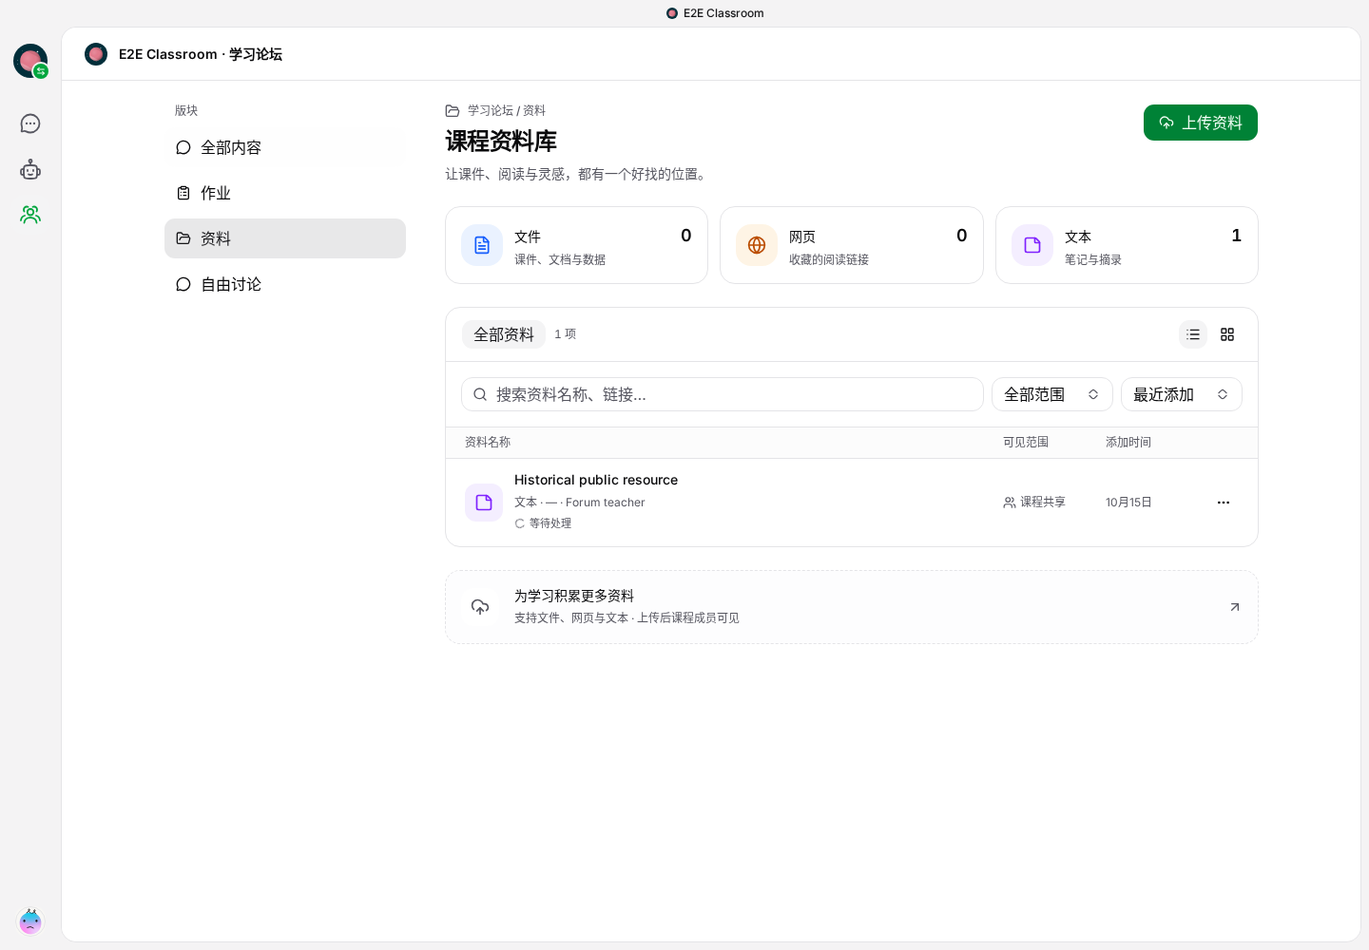
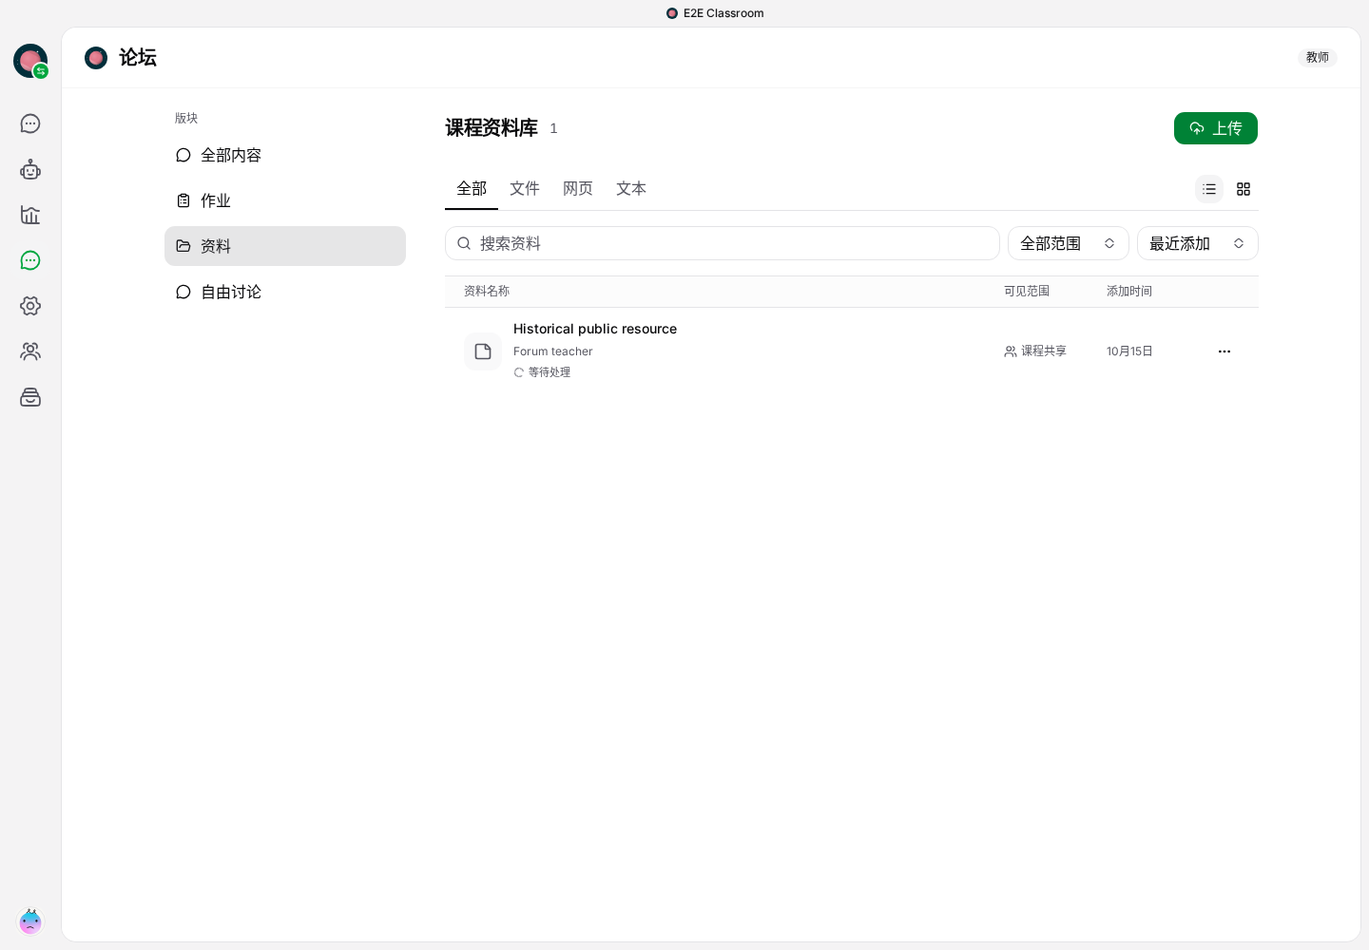
style(forum): simplify the resource library to a minimal interface

diff --git a/src/features/knowledge/components/SourceLibraryBrowser.tsx b/src/features/knowledge/components/SourceLibraryBrowser.tsx
@@ -1,5 +1,5 @@
 import { useMemo, useState } from 'react'
-import { ArrowDownToLine, ArrowUpRight, Check, FileText, Files, FolderOpen, Globe, LayoutGrid, List, LoaderCircle, LockKeyhole, MoreHorizontal, Search, StickyNote, UploadCloud, Users, X } from 'lucide-react'
+import { ArrowDownToLine, ArrowUpRight, FileText, Files, Globe, LayoutGrid, List, LoaderCircle, LockKeyhole, MoreHorizontal, Search, StickyNote, UploadCloud, Users, X } from 'lucide-react'
 import { Button } from '@/components/ui/button'
 import { Input } from '@/components/ui/input'
 import { SelectField } from '@/components/ui/select-field'
@@ -13,16 +13,15 @@ export const sourceStatusLabel: Record<string, string> = {
   chunking: '处理中', indexing: '处理中', ready: '可查看', failed: '处理失败', retrying: '重新处理',
 }
 const categories = [
-  { kind: 'file', label: '文件', description: '课件、文档与数据', icon: FileText, color: 'bg-blue-500/10 text-blue-600 dark:text-blue-400' },
-  { kind: 'url', label: '网页', description: '收藏的阅读链接', icon: Globe, color: 'bg-amber-500/10 text-amber-700 dark:text-amber-400' },
-  { kind: 'text', label: '文本', description: '笔记与摘录', icon: StickyNote, color: 'bg-violet-500/10 text-violet-600 dark:text-violet-400' },
+  { kind: 'file', label: '文件', icon: FileText, color: 'bg-muted/50 text-muted-foreground' },
+  { kind: 'url', label: '网页', icon: Globe, color: 'bg-muted/50 text-muted-foreground' },
+  { kind: 'text', label: '文本', icon: StickyNote, color: 'bg-muted/50 text-muted-foreground' },
 ] as const
 const sizeLabel = (bytes: number) => bytes === 0 ? '—' : bytes < 1024 ? `${bytes} B` : bytes < 1024 * 1024 ? `${Math.ceil(bytes / 1024)} KB` : `${(bytes / 1024 / 1024).toFixed(1)} MB`
 const dateLabel = (date: string) => new Date(date).toLocaleDateString('zh-CN', { month: 'short', day: 'numeric' })
 
-export function SourceLibraryBrowser({ sources, loading, loaded, error, readOnly, uploadVisibility, creatorName, editable, onUpload, onOpen, onRename, onRetry, onRemove, onReload }: {
+export function SourceLibraryBrowser({ sources, loading, loaded, error, readOnly, creatorName, editable, onUpload, onOpen, onRename, onRetry, onRemove, onReload }: {
   sources: KnowledgeSource[]; loading: boolean; loaded: boolean; error: string; readOnly: boolean
-  uploadVisibility: 'PRIVATE' | 'PROJECT'
   creatorName(source: KnowledgeSource): string
   editable(source: KnowledgeSource): boolean
   onUpload(): void; onOpen(source: KnowledgeSource): void; onRename(source: KnowledgeSource): void
@@ -41,34 +40,30 @@ export function SourceLibraryBrowser({ sources, loading, loaded, error, readOnly
   const clear = () => { setQuery(''); setKind('all'); setScope('all') }
 
   return <section aria-label="课程资料库" className="@container/library min-w-0 space-y-6 pb-4">
-    <header className="flex flex-wrap items-start justify-between gap-4">
-      <div><p className="mb-2 flex items-center gap-2 text-xs font-medium text-muted-foreground"><FolderOpen className="size-4" aria-hidden="true" />学习论坛 / 资料</p><h2 className="text-2xl font-semibold tracking-tight">课程资料库</h2><p className="mt-2 text-sm text-muted-foreground">让课件、阅读与灵感，都有一个好找的位置。</p></div>
-      {!readOnly && <Button onClick={onUpload} className="h-10 gap-2 px-4"><UploadCloud className="size-4" />上传资料</Button>}
+    <header className="flex items-center justify-between gap-4">
+      <div className="flex items-center gap-3"><h2 className="text-xl font-semibold tracking-tight">课程资料库</h2><span role="status" aria-label="资料数量" className="text-sm tabular-nums text-muted-foreground">{loaded ? sources.length : '—'}</span></div>
+      {!readOnly && <Button aria-label="上传资料" onClick={onUpload} className="h-9 gap-2 px-4"><UploadCloud className="size-4" />上传</Button>}
     </header>
-    <div className="grid grid-cols-3 gap-2 @min-[32rem]/library:gap-3" aria-label="按资料类型浏览">
-      {categories.map(({ kind: value, label, description, icon: Icon, color }) => <button key={value} type="button" aria-label={label} aria-pressed={kind === value} onClick={() => setKind(kind === value ? 'all' : value)} className={cn('flex min-w-0 flex-col items-start gap-2 rounded-xl border bg-card p-3 @min-[32rem]/library:flex-row @min-[32rem]/library:items-center @min-[32rem]/library:gap-3 @min-[32rem]/library:p-4 text-start transition-colors hover:bg-muted/40 focus-visible:outline-2 focus-visible:outline-offset-2 focus-visible:outline-ring', kind === value && 'border-primary bg-primary/5')}>
-        <span className={cn('grid size-11 shrink-0 place-items-center rounded-xl', color)}><Icon className="size-5" aria-hidden="true" /></span>
-        <span className="w-full min-w-0 flex-1"><span className="flex items-baseline justify-between gap-2 text-sm font-medium">{label}<span className="text-lg font-semibold tabular-nums">{loaded ? sources.filter(source => source.kind === value).length : '—'}</span></span><span className="mt-1 hidden text-xs text-muted-foreground @min-[32rem]/library:block">{description}</span></span>
-      </button>)}
-    </div>
-    <div className="overflow-hidden rounded-xl border bg-card">
-      <div className="flex flex-wrap items-center justify-between gap-3 border-b px-4 py-3">
-        <div className="flex items-center gap-2"><Button variant={kind === 'all' ? 'secondary' : 'ghost'} size="sm" onClick={() => setKind('all')}>全部资料</Button><span className="text-xs tabular-nums text-muted-foreground" role="status">{loaded ? `${filtered.length} 项` : '加载中'}</span></div>
+    <div className="overflow-hidden">
+      <div className="flex flex-wrap items-center justify-between gap-2 border-b">
+        <nav aria-label="按资料类型浏览" className="flex items-center">
+          {[{ kind: 'all', label: '全部', ariaLabel: '全部资料' }, ...categories.map(category => ({ ...category, ariaLabel: category.label }))].map(category => <Button key={category.kind} variant="ghost" size="sm" aria-label={category.ariaLabel} aria-pressed={kind === category.kind} onClick={() => setKind(category.kind)} className="h-11 rounded-none border-x-0 border-t-0 border-b-2 border-transparent px-3 text-muted-foreground aria-pressed:border-b-foreground aria-pressed:text-foreground">{category.label}</Button>)}
+        </nav>
         <div className="flex items-center gap-1" role="group" aria-label="资料显示方式"><Button variant={view === 'list' ? 'secondary' : 'ghost'} size="icon-sm" aria-label="列表视图" aria-pressed={view === 'list'} onClick={() => setView('list')}><List /></Button><Button variant={view === 'grid' ? 'secondary' : 'ghost'} size="icon-sm" aria-label="网格视图" aria-pressed={view === 'grid'} onClick={() => setView('grid')}><LayoutGrid /></Button></div>
       </div>
-      <div className="flex flex-wrap gap-2 p-4">
-        <div className="relative min-w-0 flex-1 basis-48"><Search aria-hidden="true" className="pointer-events-none absolute start-3 top-2.5 size-4 text-muted-foreground" /><Input aria-label="搜索资料" type="search" placeholder="搜索资料名称、链接…" className="bg-background" style={{ paddingInlineStart: '2.25rem' }} value={query} onChange={event => setQuery(event.target.value)} /></div>
+      <div className="flex flex-wrap gap-2 py-4">
+        <div className="relative min-w-0 flex-1 basis-48"><Search aria-hidden="true" className="pointer-events-none absolute start-3 top-2.5 size-4 text-muted-foreground" /><Input aria-label="搜索资料" type="search" placeholder="搜索资料" className="bg-background" style={{ paddingInlineStart: '2.25rem' }} value={query} onChange={event => setQuery(event.target.value)} /></div>
         <SelectField ariaLabel="资料可见范围" className="w-32" value={scope} onValueChange={setScope} options={[{ value: 'all', label: '全部范围' }, { value: 'PROJECT', label: '课程共享' }, { value: 'PRIVATE', label: '仅自己可见' }]} />
         <SelectField ariaLabel="资料排序" className="w-32" value={sort} onValueChange={setSort} options={[{ value: 'newest', label: '最近添加' }, { value: 'oldest', label: '最早添加' }, { value: 'name', label: '名称 A–Z' }]} />
       </div>
       {error && <div role="alert" className="mx-4 mb-4 flex flex-wrap items-center justify-between gap-2 rounded-lg border border-destructive/30 bg-destructive/5 p-3 text-sm text-destructive">{error}<Button variant="outline" size="sm" disabled={loading} onClick={onReload}>重新加载</Button></div>}
       <div aria-busy={loading}>
         {loading && !loaded ? <div className="px-4 pb-4"><SourceCardsSkeleton /></div> : !error && filtered.length === 0 ? <div className="flex min-h-64 flex-col items-center justify-center px-5 py-10 text-center">
-          <div className="mb-4 grid size-14 place-items-center rounded-2xl bg-muted text-muted-foreground"><Files className="size-7" /></div><h3 className="font-medium">{hasFilters ? '没有找到匹配的资料' : '把第一份资料放进来'}</h3><p className="mt-2 max-w-sm text-sm text-muted-foreground">{hasFilters ? '试试其他关键词，或清除筛选查看全部资料。' : readOnly ? '课程资料将在这里集中展示。' : '上传课件、添加阅读链接，或保存一段值得留住的文字。'}</p>
-          {hasFilters ? <Button variant="outline" className="mt-5" onClick={clear}><X />清除筛选</Button> : !readOnly && <Button variant="outline" className="mt-5" onClick={onUpload}>添加第一份资料<ArrowUpRight /></Button>}
+          <div className="mb-4 grid size-14 place-items-center rounded-2xl bg-muted text-muted-foreground"><Files className="size-7" /></div><h3 className="font-medium">{hasFilters ? '没有找到匹配的资料' : '暂无资料'}</h3>
+          {hasFilters ? <Button variant="outline" className="mt-5" onClick={clear}><X />清除筛选</Button> : !readOnly && <Button variant="outline" className="mt-5" onClick={onUpload}>上传资料<UploadCloud /></Button>}
         </div> : <>
           {view === 'list' && filtered.length > 0 && <div aria-hidden="true" className="hidden grid-cols-[minmax(0,1fr)_6rem_6rem_2rem] gap-3 border-y bg-muted/30 px-5 py-2 text-xs text-muted-foreground @min-[36rem]/library:grid"><span>资料名称</span><span>可见范围</span><span>添加时间</span><span /></div>}
-          <ul aria-label="资料列表" className={view === 'grid' ? 'grid gap-3 p-4 @min-[32rem]/library:grid-cols-2 @min-[56rem]/library:grid-cols-3' : 'divide-y'}>
+          <ul aria-label="资料列表" className={view === 'grid' ? 'grid gap-3 py-2 @min-[32rem]/library:grid-cols-2 @min-[56rem]/library:grid-cols-3' : 'divide-y'}>
             {filtered.map(source => {
               const category = categories.find(item => item.kind === source.kind)!
               const Icon = category.icon
@@ -76,8 +71,8 @@ export function SourceLibraryBrowser({ sources, loading, loaded, error, readOnly
               return <li key={source.id} className={cn('group min-w-0', view === 'grid' ? 'relative rounded-xl border p-4 transition-colors hover:bg-muted/20' : 'grid grid-cols-[minmax(0,1fr)_2rem] items-center gap-3 px-4 py-3 transition-colors hover:bg-muted/30 @min-[36rem]/library:grid-cols-[minmax(0,1fr)_6rem_6rem_2rem] @min-[36rem]/library:px-5')}>
                 <button type="button" aria-label={`打开资料：${source.title}`} onClick={() => onOpen(source)} className={cn('min-w-0 rounded-md text-start focus-visible:outline-2 focus-visible:outline-offset-4 focus-visible:outline-ring', view === 'grid' ? 'block w-full' : 'flex items-center gap-3')}>
                   <span className={cn('grid shrink-0 place-items-center rounded-lg', category.color, view === 'grid' ? 'mb-5 size-12' : 'size-10')}><Icon className="size-5" aria-hidden="true" /></span>
-                  <span className="block min-w-0"><span className="block truncate text-sm font-medium" title={source.title}>{source.title}</span><span className="mt-1.5 flex items-center gap-1.5 text-xs text-muted-foreground"><span className="truncate">{category.label} · {sizeLabel(source.sizeBytes)} · {creatorName(source)}</span></span>
-                    <span className={cn('mt-1.5 inline-flex items-center gap-1 text-[11px]', source.status === 'failed' ? 'text-destructive' : 'text-muted-foreground')}>{busy ? <LoaderCircle className="size-3 animate-spin motion-reduce:animate-none" /> : source.status === 'ready' ? <Check className="size-3 text-emerald-600 dark:text-emerald-400" /> : null}{sourceStatusLabel[source.stage] ?? sourceStatusLabel[source.status] ?? '状态暂不可用'}</span>
+                  <span className="block min-w-0"><span className="block truncate text-sm font-medium" title={source.title}>{source.title}</span><span className="mt-1.5 flex items-center gap-1.5 text-xs text-muted-foreground"><span className="truncate">{source.sizeBytes > 0 ? `${sizeLabel(source.sizeBytes)} · ` : ''}{creatorName(source)}</span></span>
+                    {source.status !== 'ready' && <span className={cn('mt-1.5 inline-flex items-center gap-1 text-[11px]', source.status === 'failed' ? 'text-destructive' : 'text-muted-foreground')}>{busy ? <LoaderCircle className="size-3 animate-spin motion-reduce:animate-none" /> : null}{sourceStatusLabel[source.stage] ?? sourceStatusLabel[source.status] ?? '状态暂不可用'}</span>}
                   </span>
                 </button>
                 <span className={cn('items-center gap-1 text-xs text-muted-foreground', view === 'grid' ? 'mt-4 inline-flex' : 'hidden @min-[36rem]/library:flex')}>{source.visibilityScope === 'PROJECT' ? <Users className="size-3.5" /> : <LockKeyhole className="size-3.5" />}{source.visibilityScope === 'PROJECT' ? '课程共享' : '仅自己'}</span>
@@ -94,6 +89,6 @@ export function SourceLibraryBrowser({ sources, loading, loaded, error, readOnly
         </>}
       </div>
     </div>
-    {!readOnly && <button type="button" onClick={onUpload} className="flex w-full items-center gap-4 rounded-xl border border-dashed bg-muted/15 p-4 text-start transition-colors hover:border-primary/50 hover:bg-primary/5 focus-visible:outline-2 focus-visible:outline-ring"><span className="grid size-10 shrink-0 place-items-center rounded-lg bg-background text-muted-foreground"><UploadCloud className="size-5" /></span><span className="min-w-0 flex-1"><span className="block text-sm font-medium">为学习积累更多资料</span><span className="mt-1 block text-xs leading-5 text-muted-foreground">支持文件、网页与文本 · {uploadVisibility === 'PROJECT' ? '上传后课程成员可见' : '上传后仅自己可见'}</span></span><ArrowUpRight className="size-4 shrink-0 text-muted-foreground" /></button>}
+
   </section>
 }

diff --git a/src/features/knowledge/components/KnowledgeSourceUploadDialog.tsx b/src/features/knowledge/components/KnowledgeSourceUploadDialog.tsx
@@ -76,11 +76,11 @@ export function KnowledgeSourceUploadDialog({
   }
 
   return <Dialog open={open} onOpenChange={changeOpen}>
-    <DialogContent className="h-[min(38rem,calc(100dvh-2rem))] grid-rows-[auto_minmax(0,1fr)] sm:max-w-xl">
+    <DialogContent className="h-[min(32rem,calc(100dvh-2rem))] grid-rows-[auto_minmax(0,1fr)] sm:max-w-xl">
       <DialogHeader>
         <DialogTitle className="text-xl">上传资料</DialogTitle>
-        <DialogDescription>将文件、网页或文本添加到课程资料库。</DialogDescription>
-        <p className="flex items-center gap-2 rounded-lg bg-muted/50 p-3 text-xs text-muted-foreground">{visibilityScope === 'PROJECT' ? <Users className="size-4" /> : <LockKeyhole className="size-4" />}{visibilityScope === 'PROJECT' ? '课程成员可见 · 上传后可在课程中查看与引用' : '仅自己可见 · 你的个人学习资料'}</p>
+        <DialogDescription className="sr-only">添加文件、网页或文本</DialogDescription>
+        <p className="flex items-center gap-2 rounded-lg bg-muted/50 p-3 text-xs text-muted-foreground">{visibilityScope === 'PROJECT' ? <Users className="size-4" /> : <LockKeyhole className="size-4" />}{visibilityScope === 'PROJECT' ? '课程成员可见' : '仅自己可见'}</p>
         {error && <p role="alert" className="text-sm text-destructive">{error}</p>}
       </DialogHeader>
       <Tabs value={tab} onValueChange={(value) => { if (!busy) setTab(value as typeof tab) }} className="min-h-0">
@@ -93,7 +93,7 @@ export function KnowledgeSourceUploadDialog({
             onDragLeave={() => setDragging(false)}
             onDrop={(event) => { event.preventDefault(); if (!busy) selectFiles([...event.dataTransfer.files]) }}
           >
-            <EmptyHeader><EmptyMedia variant="icon"><HugeiconsIcon icon={File01Icon} strokeWidth={2} /></EmptyMedia><EmptyTitle>拖放多个文件到这里</EmptyTitle><EmptyDescription>PDF、DOCX、TXT、MD、CSV、JSON · 单文件不超过 200 MB</EmptyDescription></EmptyHeader>
+            <EmptyHeader><EmptyMedia variant="icon"><HugeiconsIcon icon={File01Icon} strokeWidth={2} /></EmptyMedia><EmptyTitle>拖放文件</EmptyTitle><EmptyDescription>PDF、DOCX、TXT、MD、CSV、JSON · 单文件不超过 200 MB</EmptyDescription></EmptyHeader>
             <EmptyContent><Button type="button" variant="outline" disabled={busy} onClick={() => fileRef.current?.click()}><HugeiconsIcon icon={Upload04Icon} strokeWidth={2} />浏览文件</Button><Input ref={fileRef} aria-label="选择资料文件" disabled={busy} hidden multiple accept={ACCEPT} type="file" onChange={(event) => { selectFiles([...event.target.files ?? []]); event.target.value = '' }} /></EmptyContent>
           </Empty>
           {files.length > 0 && <ul aria-label="待上传文件" className="max-h-36 shrink-0 overflow-y-auto divide-y rounded-lg border">{files.map((file, index) => <li key={`${file.name}:${file.size}:${file.lastModified}`} className="flex items-center gap-2 px-3 py-2 text-sm"><FileText className="size-4 shrink-0 text-muted-foreground" /><span className="min-w-0 flex-1 truncate">{file.name}</span><Button type="button" size="icon-sm" variant="ghost" disabled={busy} aria-label={`移除文件：${file.name}`} onClick={() => setFiles(current => current.filter((_, at) => at !== index))}><Trash2 className="size-4" /></Button></li>)}</ul>}
@@ -106,7 +106,7 @@ export function KnowledgeSourceUploadDialog({
         </TabsContent>
         <TabsContent value="text" className="flex min-h-0 flex-col gap-3">
           <Input aria-label="资料标题" disabled={busy} value={title} onChange={(event) => setTitle(event.target.value)} placeholder="标题（可选）" />
-          <Textarea aria-label="文本内容" disabled={busy} value={text} onChange={(event) => setText(event.target.value)} placeholder="粘贴需要作为依据的内容…" className="min-h-0 flex-1 resize-none" />
+          <Textarea aria-label="文本内容" disabled={busy} value={text} onChange={(event) => setText(event.target.value)} placeholder="粘贴文本…" className="min-h-0 flex-1 resize-none" />
           <Button type="button" className="self-end" disabled={busy || !text.trim()} onClick={() => void run(() => onText(title.trim() || '粘贴文本', text.trim()))}>{busy && <HugeiconsIcon icon={Loading03Icon} className="animate-spin" strokeWidth={2} />}添加并处理</Button>
         </TabsContent>
       </Tabs>

diff --git a/src/features/knowledge/components/ProjectSourceLibrary.tsx b/src/features/knowledge/components/ProjectSourceLibrary.tsx
@@ -138,7 +138,7 @@ export function ProjectSourceLibrary({
 
   return <div className="min-w-0">
     <SourceLibraryBrowser sources={visibleSources} loading={loading} loaded={loaded} error={error} readOnly={readOnly}
-      uploadVisibility={uploadVisibility} creatorName={source => byId[source.createdBy]?.name ?? source.ownerName ?? (source.createdBy === me?.id ? '你' : '课程成员')}
+      creatorName={source => byId[source.createdBy]?.name ?? source.ownerName ?? (source.createdBy === me?.id ? '你' : '课程成员')}
       editable={editable} onUpload={() => setAdding(true)} onOpen={source => void open(source)} onRename={setRenaming}
       onRetry={source => void retry(source)} onRemove={source => void remove(source)} onReload={() => void load()} />
     {!readOnly && <KnowledgeSourceUploadDialog open={adding} onOpenChange={setAdding} onFiles={uploadFiles} onUrl={addUrl} onText={addText} visibilityScope={uploadVisibility} />}

diff --git a/docs/evidence/forum-resource-library/README.md b/docs/evidence/forum-resource-library/README.md
@@ -9,7 +9,7 @@ Inspected the official screenshots and documentation of these open-source projec
 - [Cloudreve](https://github.com/cloudreve/cloudreve), [official screenshot](https://raw.githubusercontent.com/cloudreve/docs/master/images/homepage.png): stable left navigation, a separate upload action, file categories, and explicit list/grid controls. Applied these patterns to the forum shell without copying upstream code.
 - [Paperless-ngx](https://github.com/paperless-ngx/paperless-ngx), [official document table](https://raw.githubusercontent.com/paperless-ngx/paperless-ngx/main/docs/assets/screenshots/documents-table.png): a document-centric toolbar and scannable metadata columns. Applied searchable names/links, visibility filters, sort controls and file metadata instead of social feed cards.
 
-The compact mobile category row leaves room for actual resources. All colors use the existing theme, including dark mode. The upload dialog separates file selection, removal and submission; accepts multiple files, URLs and pasted text; explains visibility; and retains failed upload attempts. Successfully uploaded File objects are remembered during retries to prevent duplicate creation after partial failure.
+The final minimalist revision removes the breadcrumb, introductory copy, category cards, colorful icon backgrounds and duplicate upload panel. A compact filter row and neutral icons leave the focus on actual resources. All colors use the existing theme, including dark mode. The upload dialog separates file selection, removal and submission; accepts multiple files, URLs and pasted text; explains visibility; and retains failed upload attempts. Successfully uploaded File objects are remembered during retries to prevent duplicate creation after partial failure.
 
 ## Validation
 
@@ -17,10 +17,12 @@ The compact mobile category row leaves room for actual resources. All colors use
 - `npm run typecheck`: passed.
 - `npm test`: 87 passed, zero failures/skips.
 - `npm run build`: passed.
-- `XDG_CACHE_HOME=/workspace/.lingxi-setup/cache node e2e/server/forum.mjs --browser-only`: 5 browser tests passed, zero failures/skips, using tester-army/e2e and the official @e2e-dev/web engine.
+- `XDG_CACHE_HOME=/workspace/.lingxi-setup/cache node e2e/server/forum.mjs --browser-only`: 5 browser tests passed on the initial redesign; the final minimal revision passes its focused resource journey, using tester-army/e2e and the official @e2e-dev/web engine.
 - `npm run test:e2e:typecheck`: blocked by an existing error at `server/src/agent-runtime/delivery.ts:92` (TS2367: the published runtime's reason union excludes `mention_limit`). The same code exists at the baseline commit; this change does not modify that server code. The new test has no reported type errors.
 
 The new browser journey covers the retained sidebar, absent post composer, real file/text/URL requests, partial upload failure and retry without duplication, search/no-results, category filtering, list/grid switching, rename/detail, desktop light/dark, a 390px mobile viewport without horizontal overflow, return to discussions, and teacher-shared/student-private visibility across different identities.
+
+For the final minimal revision, run `XDG_CACHE_HOME=/workspace/.lingxi-setup/cache node e2e/server/forum.mjs --browser-only --resources-only`. The full rerun after concurrent main commit `24a4f1c5` passed 4 tests and failed the old retirement-navigation test: that commit restores course routes and renames the sidebar entry to 论坛, while the old test expects 学习论坛. This unrelated navigation assertion was not weakened or removed.
 
 Browser tests use the disposable PostgreSQL forum fixture, synthetic teacher/student/peer authentication, and the existing in-memory object-storage adapter. Source ingestion is left queued; external Notebook extraction, production object storage and production login are not verified by this fixture. Runtime permissions, source visibility and storage/ingestion APIs remain unchanged.
 

diff --git a/docs/evidence/forum-resource-library/browser-summary.md b/docs/evidence/forum-resource-library/browser-summary.md
@@ -1,19 +1,12 @@
-### 🟢 e2e: 5 passed
+### 🟢 e2e: 1 passed
 
 <details>
-<summary>All 5 tests in 4 files</summary>
+<summary>All 1 test in 1 file</summary>
 
 |  | Test | Time |
 | --- | --- | --- |
-| 🟢 | **e2e/forum/browser.e2e.ts** · 1 passed | 28.3s |
-| 🟢 | inline Memos lifecycle, drafts, moderation, assignments and private history | 28.3s |
-| 🟢 | **e2e/forum/composer.e2e.ts** · 2 passed | 7.2s |
-| 🟢 | composer bounds, cancellation, completion and blur (1440) | 3.9s |
-| 🟢 | composer bounds, cancellation, completion and blur (390) | 3.2s |
-| 🟢 | **e2e/forum/resources.e2e.ts** · 1 passed | 21.3s |
-| 🟢 | independent forum library, upload, filtering, privacy and responsive navigation | 21.3s |
-| 🟢 | **e2e/forum/retirement.e2e.ts** · 1 passed | 10.4s |
-| 🟢 | retired learning URLs, reload and browser history cannot restore old screens | 10.4s |
+| 🟢 | **e2e/forum/resources.e2e.ts** · 1 passed | 25.8s |
+| 🟢 | independent forum library, upload, filtering, privacy and responsive navigation | 25.8s |
 </details>
 
-<sub>e2e 0.17.0 · 1m 8s · forum</sub>
+<sub>e2e 0.17.0 · 26.3s · forum</sub>
